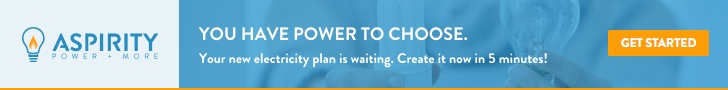
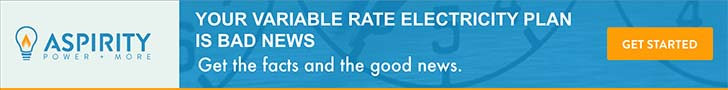
change backupimage

diff --git a/server/public/index.html b/server/public/index.html
@@ -28,55 +28,82 @@
         }</style>
     </noscript>
     <script type="text/javascript">var clickTag = "http://example.com";</script>
-    <script language="javascript">function _politeLoad(e, t) {
-        var a, n = e.length, c = 0, d = function () {
-            ++c === n && t && t()
-        };
-        for (a = 0; n > a; a++)_loadScript(e[a], d)
-    }
-    function _loadScript(e, t) {
-        var a = document.createElement("script");
-        a.type = "text/javascript", a.readyState ? a.onreadystatechange = function () {
-            ("loaded" == a.readyState || "complete" == a.readyState) && (a.onreadystatechange = null, t())
-        } : a.onload = function () {
-            t()
-        }, a.src = e, document.getElementsByTagName("head")[0].appendChild(a)
-    }
-    function pageLoadedHandler() {
-        _politeLoad(["https://cdnjs.cloudflare.com/ajax/libs/gsap/1.18.2/TweenMax.min.js", "script.js"], function () {
-            bannerInit()
-        });
-        var e = document.createElement("link");
-        e.setAttribute("rel", "stylesheet"), e.setAttribute("type", "text/css"), e.setAttribute("href", "style.css"), document.getElementsByTagName("head")[0].appendChild(e), document.getElementById("container_ad").style.opacity = 1
-    }</script>
+    <script language="javascript">
+        function _politeLoad(e, t) {
+            var a, n = e.length, c = 0, d = function () {
+                ++c === n && t && t()
+            };
+            for (a = 0; n > a; a++)_loadScript(e[a], d)
+        }
+        function _loadScript(e, t) {
+            var a = document.createElement("script");
+                a.type = "text/javascript",
+                a.readyState ?
+                a.onreadystatechange = function () {
+                    ("loaded" == a.readyState || "complete" == a.readyState) && (a.onreadystatechange = null, t())
+            } : a.onload = function () {
+                t()
+            },
+            a.src = e, document.getElementsByTagName("head")[0].appendChild(a)
+        }
+        function pageLoadedHandler() {
+            _politeLoad(["https://cdnjs.cloudflare.com/ajax/libs/gsap/1.18.2/TweenMax.min.js", "script.js"],
+                function () {
+                    bannerInit()
+                });
+                var e = document.createElement("link");
+                        e.setAttribute("rel", "stylesheet"),
+                        e.setAttribute("type", "text/css"),
+                        e.setAttribute("href", "style.css"),
+                        document.getElementsByTagName("head")[0].appendChild(e),
+                        document.getElementById("container_ad").style.opacity = 1
+        }
+    </script>
 </head>
 <body onload="pageLoadedHandler();">
-<div id="container_ad">
-    <div id="content_ad" class="content-ad">
-        <div id="mainHeadline" class="headline-text main-headline"><img src="headline.svg"
-                                                                        alt="In the dark about your right to choose your own electricity plan?">
+    <div id="container_ad">
+        <div id="content_ad" class="content-ad">
+            <div id="mainHeadline" class="headline-text main-headline">
+                <img src="headline.svg" alt="Your variable rate electricity plan is bad news">
+            </div>
+            <div id="subHeadline" class="headline-text sub-headline">
+                <img src="subhead.svg" alt="Get the facts and the good news">
+            </div>
+            <div id="bottomBanner" class="bottom-banner">
+                <div id="pulse" class="pulse"></div>
+                <div class="lightbulb-container">
+                    <img src="flame.svg" class="flame" id="flame">
+                </div>
+                <img src="aspirity_logo.svg" alt="Asprity Power + More" class="aspirity-logo">
+            </div>
+            <button class="learn-more-button">
+                <img src="learnmore.svg" alt="Learn More">
+            </button>
+            <div id="colorOverlay" class="colorOverlay"></div>
+            <div id="backgroundImage" class="backgroundImage">
+                <img src="photo.jpg" alt="Dispel Myths">
+            </div>
         </div>
-        <div id="subHeadline" class="headline-text sub-headline"><img src="subhead.svg"
-                                                                      alt="Time to turn on the lights."></div>
-        <div id="bottomBanner" class="bottom-banner">
-            <div id="pulse" class="pulse"></div>
-            <div class="lightbulb-container"><img src="flame.svg" class="flame" id="flame"></div>
-            <img src="aspirity_logo.svg" alt="Asprity Power + More" class="aspirity-logo"></div>
-        <button class="learn-more-button"><img src="learnmore.svg" alt="Learn More"></button>
-        <div id="colorOverlay" class="colorOverlay"></div>
-        <div id="backgroundImage" class="backgroundImage"><img src="photo.jpg" alt="Dispel Myths"></div>
+        <button id="background_exit_ad"></button>
     </div>
-    <button id="background_exit_ad"></button>
-</div>
-<script type="text/javascript">document.getElementById("background_exit_ad").onclick = function () {
-    window.open(window.clickTag)
-};</script>
+<script type="text/javascript">
+        document.getElementById("background_exit_ad").onclick = function () {
+        window.open(window.clickTag)};
+</script>
 <!--[if lt IE 10 ]>
-<style type="text/css">#container_ad {
-    display: none !important;
-}</style><a href="http://www.example.com" target="_blank"><img src="backupimage.jpg" width="728" height="90"></a>
+<style type="text/css">
+        #container_ad {
+            display: none !important;
+        }
+</style>
+    <a href="http://www.example.com" target="_blank">
+        <img src="backupimage.jpg" width="728" height="90">
+    </a>
 <![endif]-->
-<noscript><a href="http://example.com" target="_blank"><img src="backupimage.jpg" width="728" height="90"></a>
+<noscript>
+    <a href="http://example.com" target="_blank">
+        <img src="backupimage.jpg" width="728" height="90">
+    </a>
 </noscript>
 </body>
 </html>
